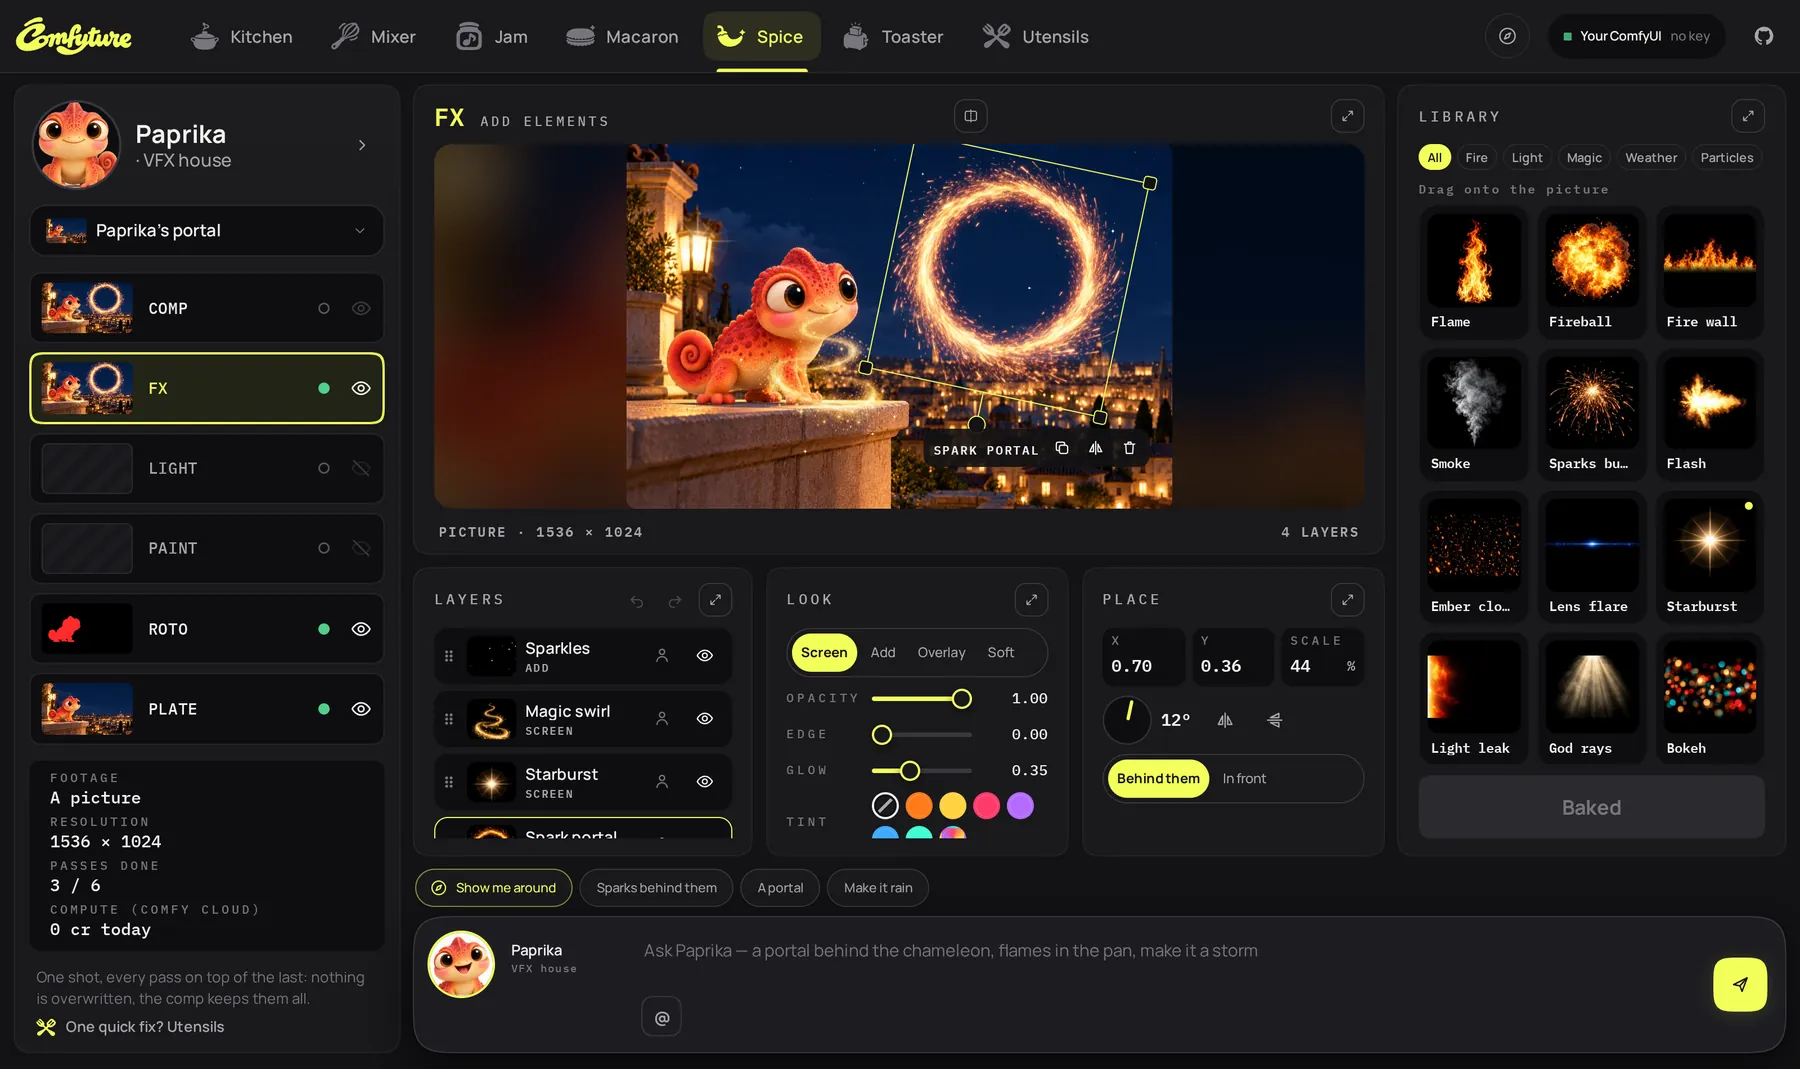
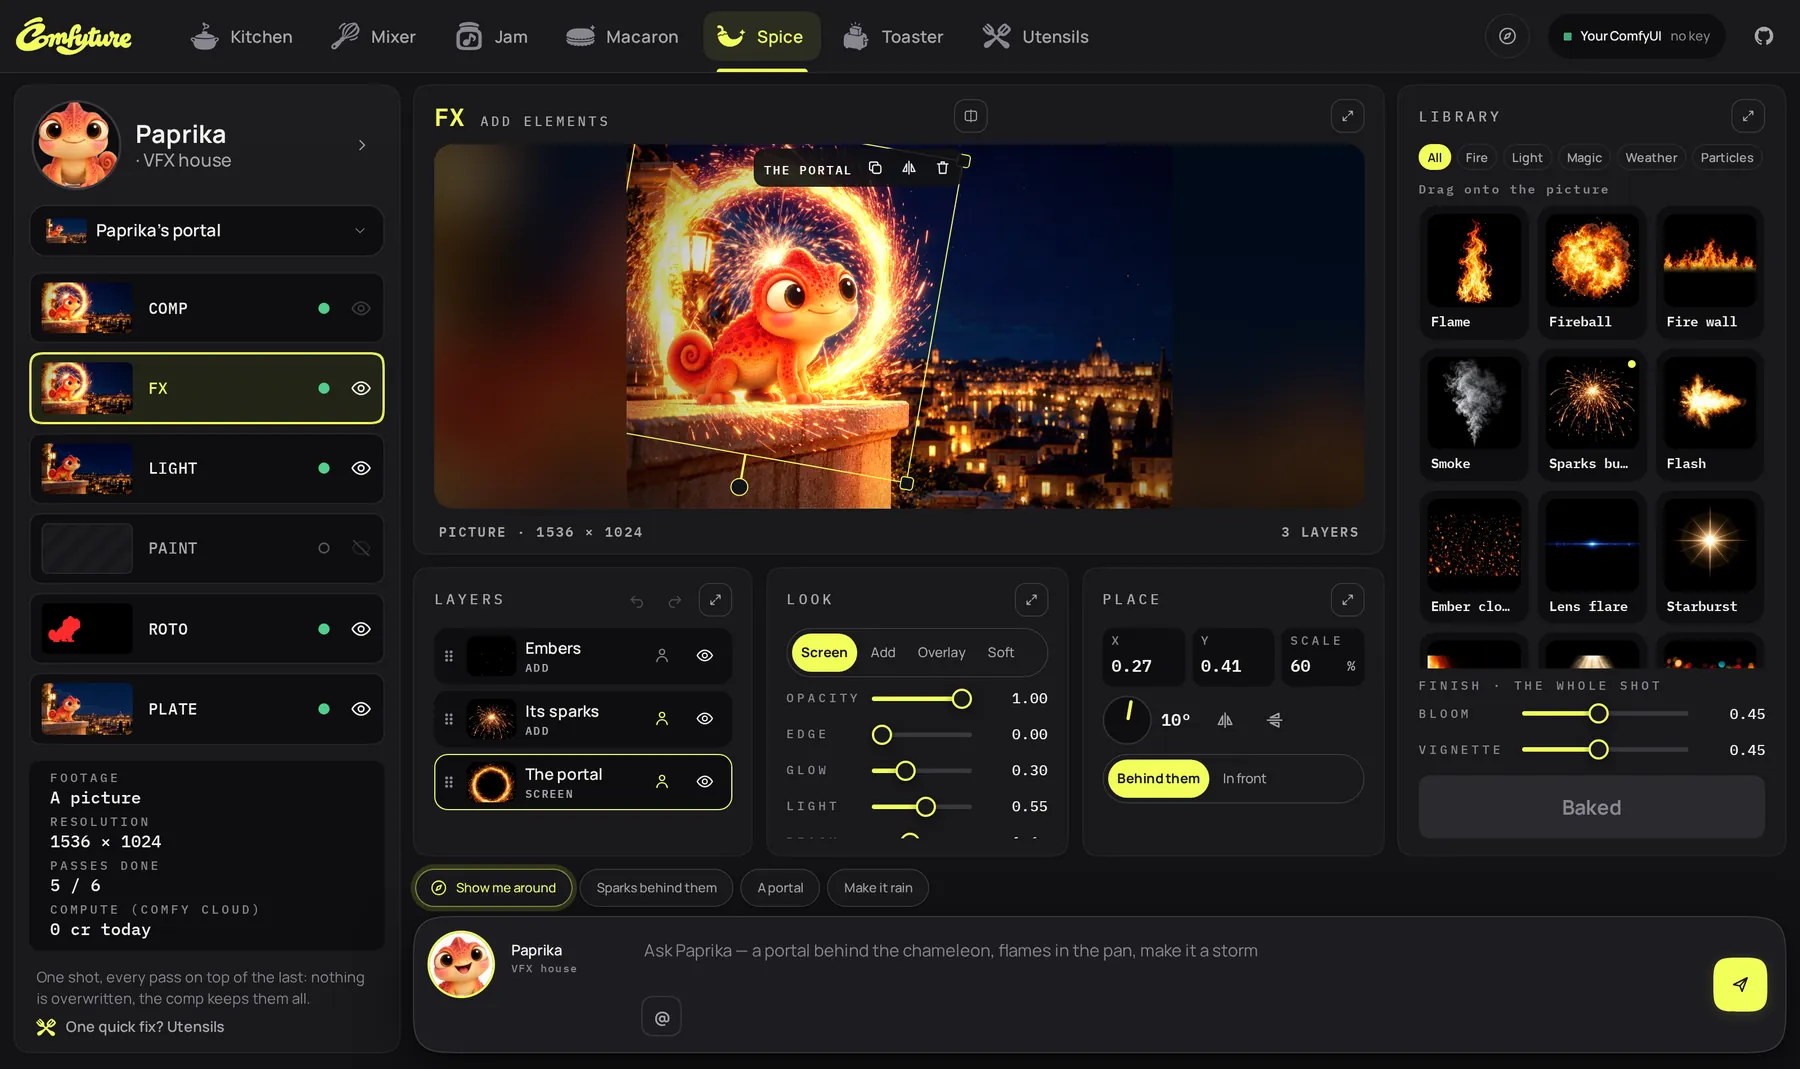
The website's Spice screen and tour screen are taken again on the redone examples (Paprika's portal in FX, its layer's light and the finish in view), by a small capture script kept beside www-media.py

diff --git a/www/index.html b/www/index.html
@@ -372,7 +372,7 @@
     </ol>
 
     <div class="duo">
-      <figure class="win" data-r><div class="wbar" aria-hidden="true"><i></i><i></i><i></i><span class="url mono">127.0.0.1:5177/#/spice</span></div><img src="media/app/spice.webp" width="1800" height="1069" alt="Spice's FX department: layers on the picture with their handles, the element library, the comp stack on the left" loading="lazy" decoding="async"></figure>
+      <figure class="win" data-r><div class="wbar" aria-hidden="true"><i></i><i></i><i></i><span class="url mono">127.0.0.1:5177/#/spice</span></div><img src="media/app/spice.webp" width="1800" height="1069" alt="Spice's FX department on Paprika's portal: the portal layer picked with its handles, its Look with the light it casts, the element library and the finish, the comp stack on the left" loading="lazy" decoding="async"></figure>
       <div class="elements" data-r>
         <h3>The FX library</h3>
         <p>Fire, smoke, flares, light leaks, portals, lightning and shockwaves shot on black, plus particles drawn frame by frame. Drop one on the picture; move, scale and turn it there.</p>
